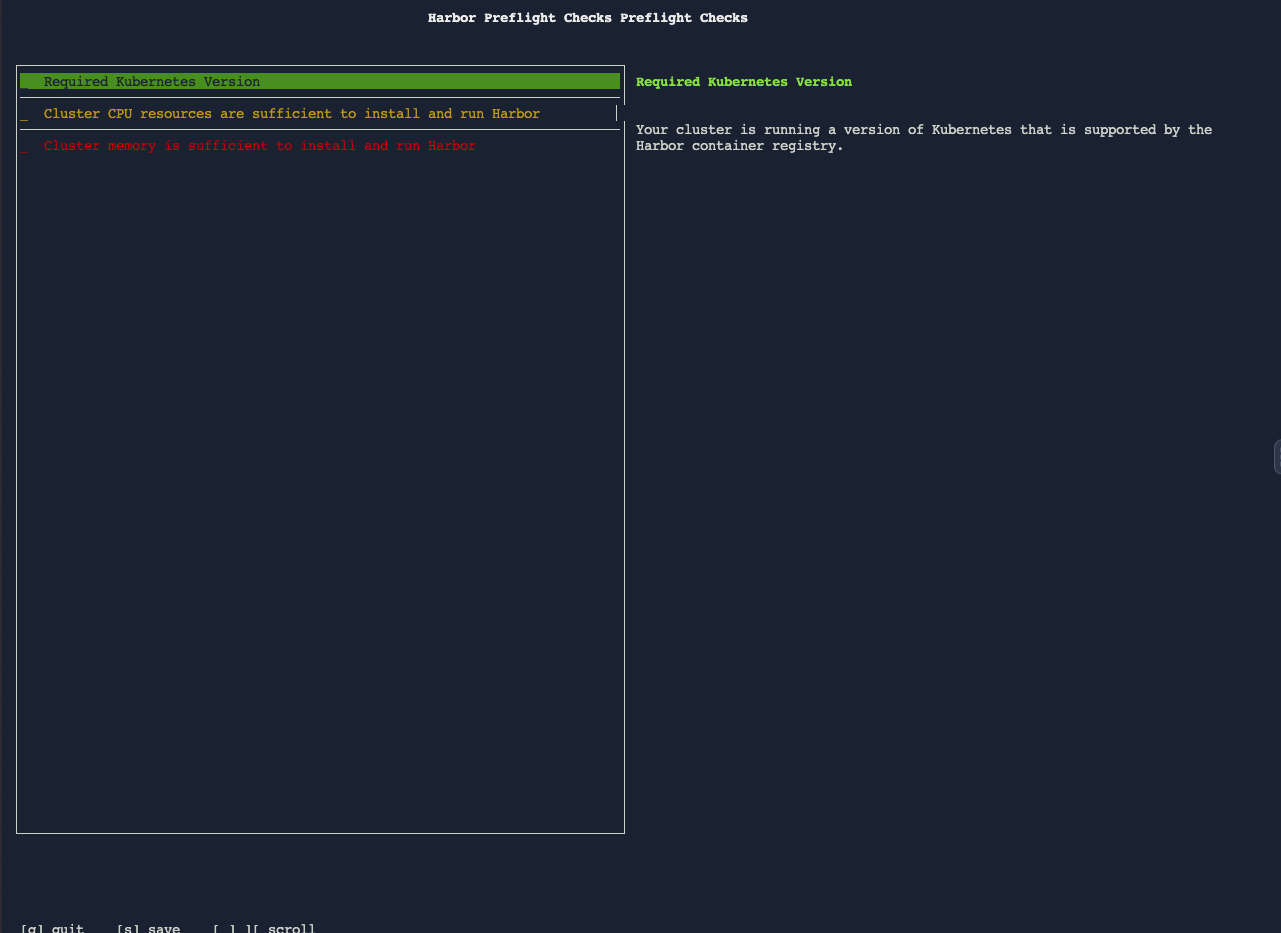
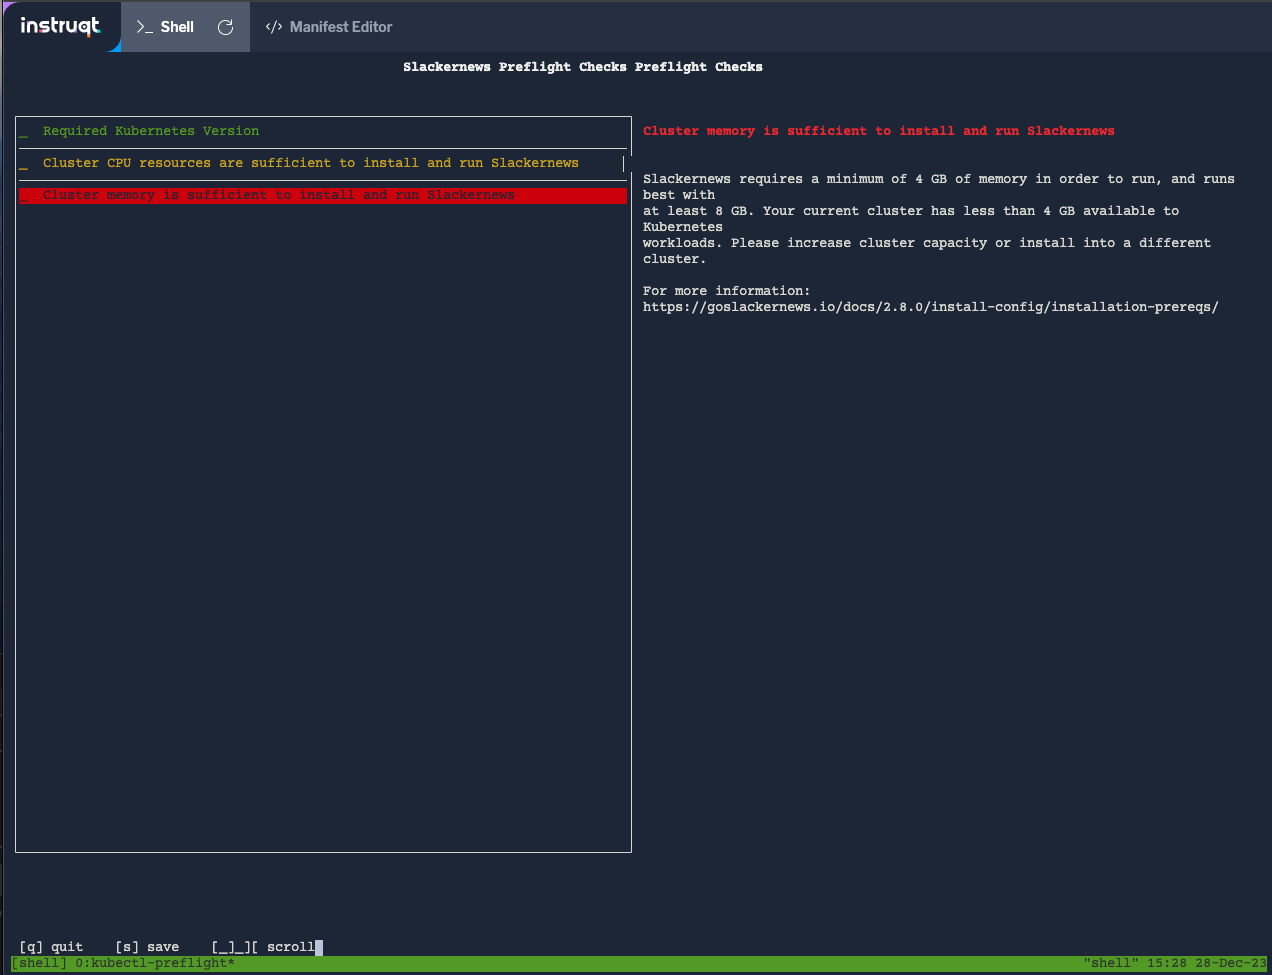
Revises second "Avoiding..." challenge after running through it

Changed region(s): [[0.0, 0.0, 0.9505, 0.9014], [0.0, 0.9636, 1.0, 1.0]]

diff --git a/instruqt/avoiding-installation-pitfalls/02-checking-cluster-resources/assignment.md b/instruqt/avoiding-installation-pitfalls/02-checking-cluster-resources/assignment.md
@@ -29,7 +29,7 @@ Cluster Resources
 The default `clusterResources` collector collects information
 about all of the nodes in the cluster. This allows us to
 write analyzers that check whether the cluster has sufficient
-resources to run our cluster: most often we write checks to
+resources to run our application: most often we write checks to
 determine whether CPU, memory, and storage meet the base
 requirements of the application.
 
@@ -148,8 +148,7 @@ kubectl preflight ./slackernews-preflights.yaml
 
 You'll see that all three preflights are run, and that the memory
 preflight has failed. This is an expected failure, since we have
-single node cluster that uses just that node's disk for storage. That
-disk is smaller than the storage requirements for Slackernews.
+single node cluster that has a small memory footprint.
 
 ![Failing Storage Preflight](../assets/memory-preflight-failure.png)
 
@@ -157,10 +156,5 @@ If you completed the [Distributing Your Application with Replicated](https://pla
 lab, you may be surprised at this failure. In that lab, we deployed
 Slackernews and it came up successfully. This is another value provided by
 your checks. They can detect latent failures, like the fact that
-Slackernews could rapidly exhaust the disk available in this cluster
+Slackernews could rapidly exhaust the memory available in this cluster
 even though it started successfully.
-
-In fact, installing the Slackernews Helm chart requests 28 GB of storage.
-The cluster in the previous lab with only 20 GB of disk available
-fulfilled all of those requests. That could create quite the challenge
-to diagnose in the future.
